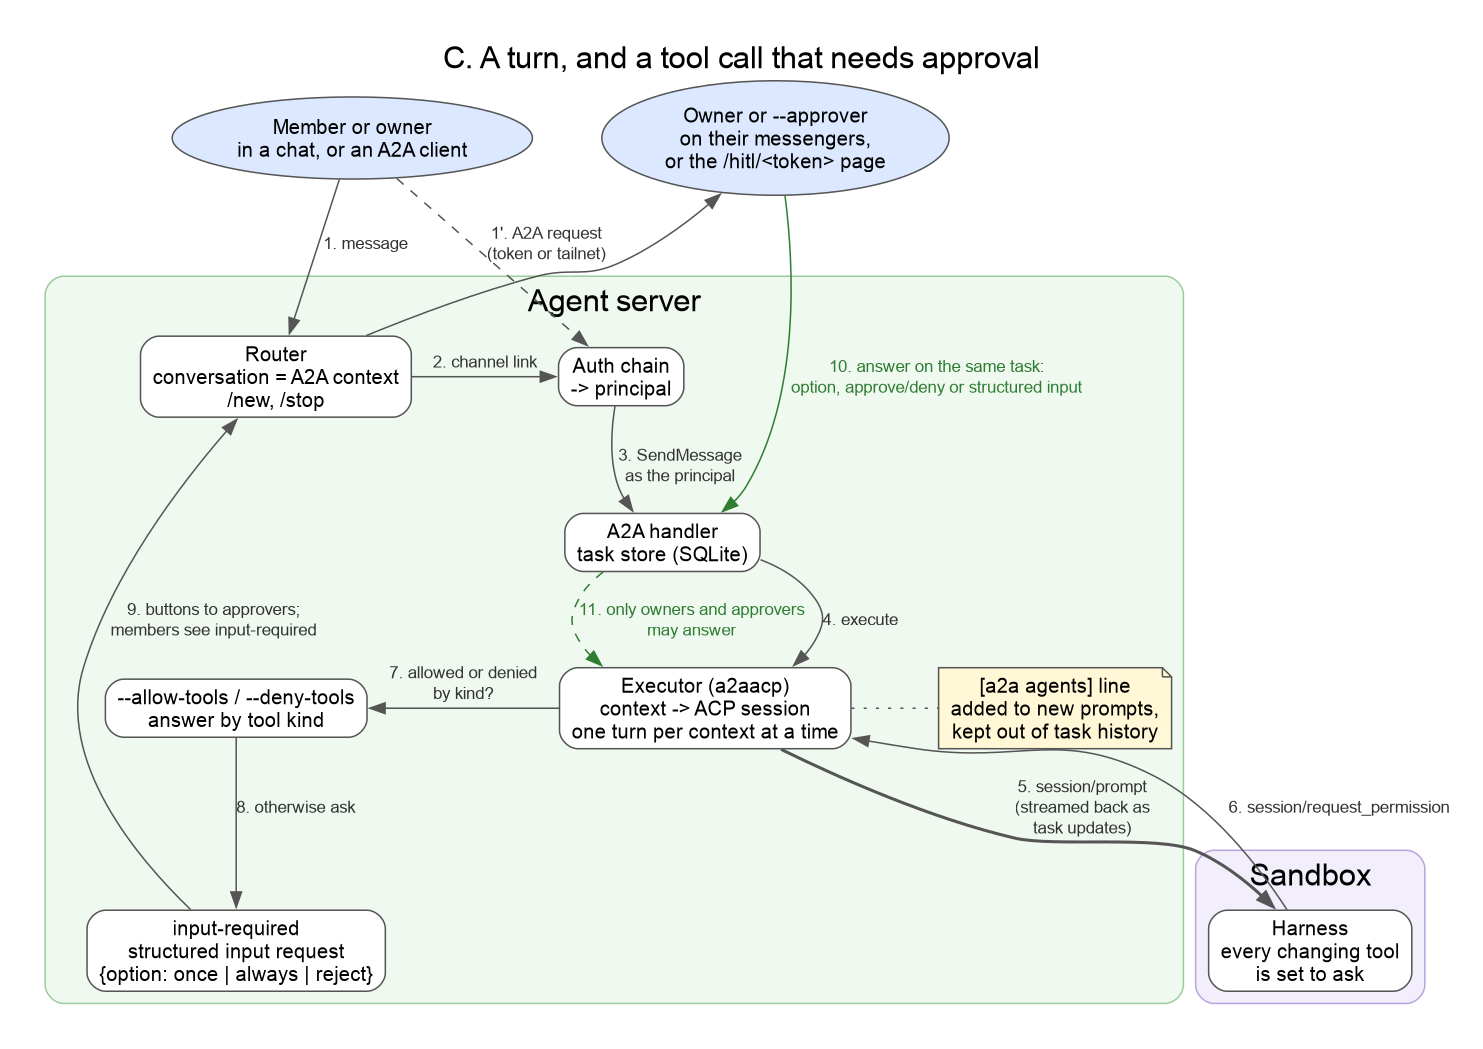
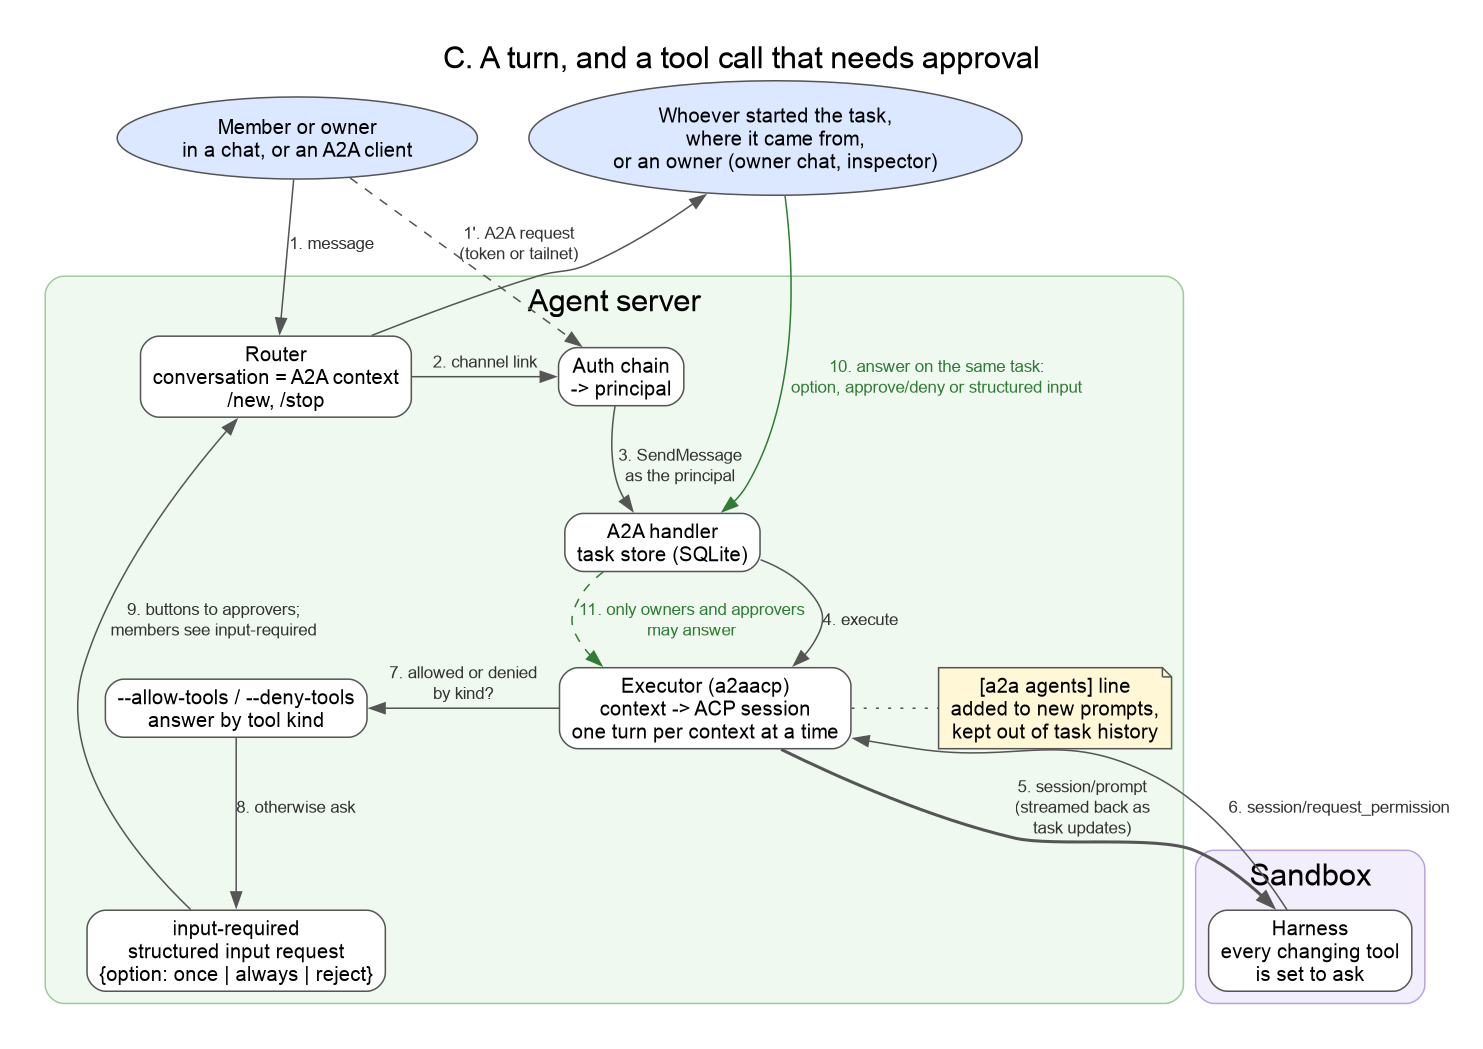
docs: show model A approvals in the turn graph, and polish two flag help texts

diff --git a/internal/schedule/schedule.go b/internal/schedule/schedule.go
@@ -157,7 +157,7 @@ func (r *Request) RegisterFlags(fs *pflag.FlagSet, owner bool) {
 	}
 	fs.StringVar(&r.As, "as", "", "Run as the owner or a pairing name (default: owner)")
 	fs.StringVar(&r.Chat, "chat", "", "Show the runs, and ask their approvals, in a chat: `channel[:who]`, such as telegram:owner (default: no chat; approvals go to the owner chat)")
-	fs.StringVar(&r.Thread, "thread", ThreadNew, "Run in a new conversation each time, or continue the same one: new or same")
+	fs.StringVar(&r.Thread, "thread", ThreadNew, "Run in a new conversation each time, or continue the same one: `new|same`")
 }
 
 // When returns when r runs.

diff --git a/internal/cli/settings_flags.go b/internal/cli/settings_flags.go
@@ -82,7 +82,7 @@ func (sf *settingsFlags) register(cmd *cobra.Command, sets settingsSet) {
 func (sf *settingsFlags) registerCore(cmd *cobra.Command) {
 	f := cmd.Flags()
 	s := &sf.s
-	commandUsage := "Command line of the harness, as shell `words`, such as \"opencode acp\"; replaces the harness's default command"
+	commandUsage := "Command line of the harness, as shell `words`, such as \"cloudcode acp\"; replaces the harness's default command"
 	if cmd.Name() == agentdir.HarnessACP {
 		commandUsage = "Command line of the ACP agent, as shell `words`, such as \"gemini --experimental-acp\""
 	}
